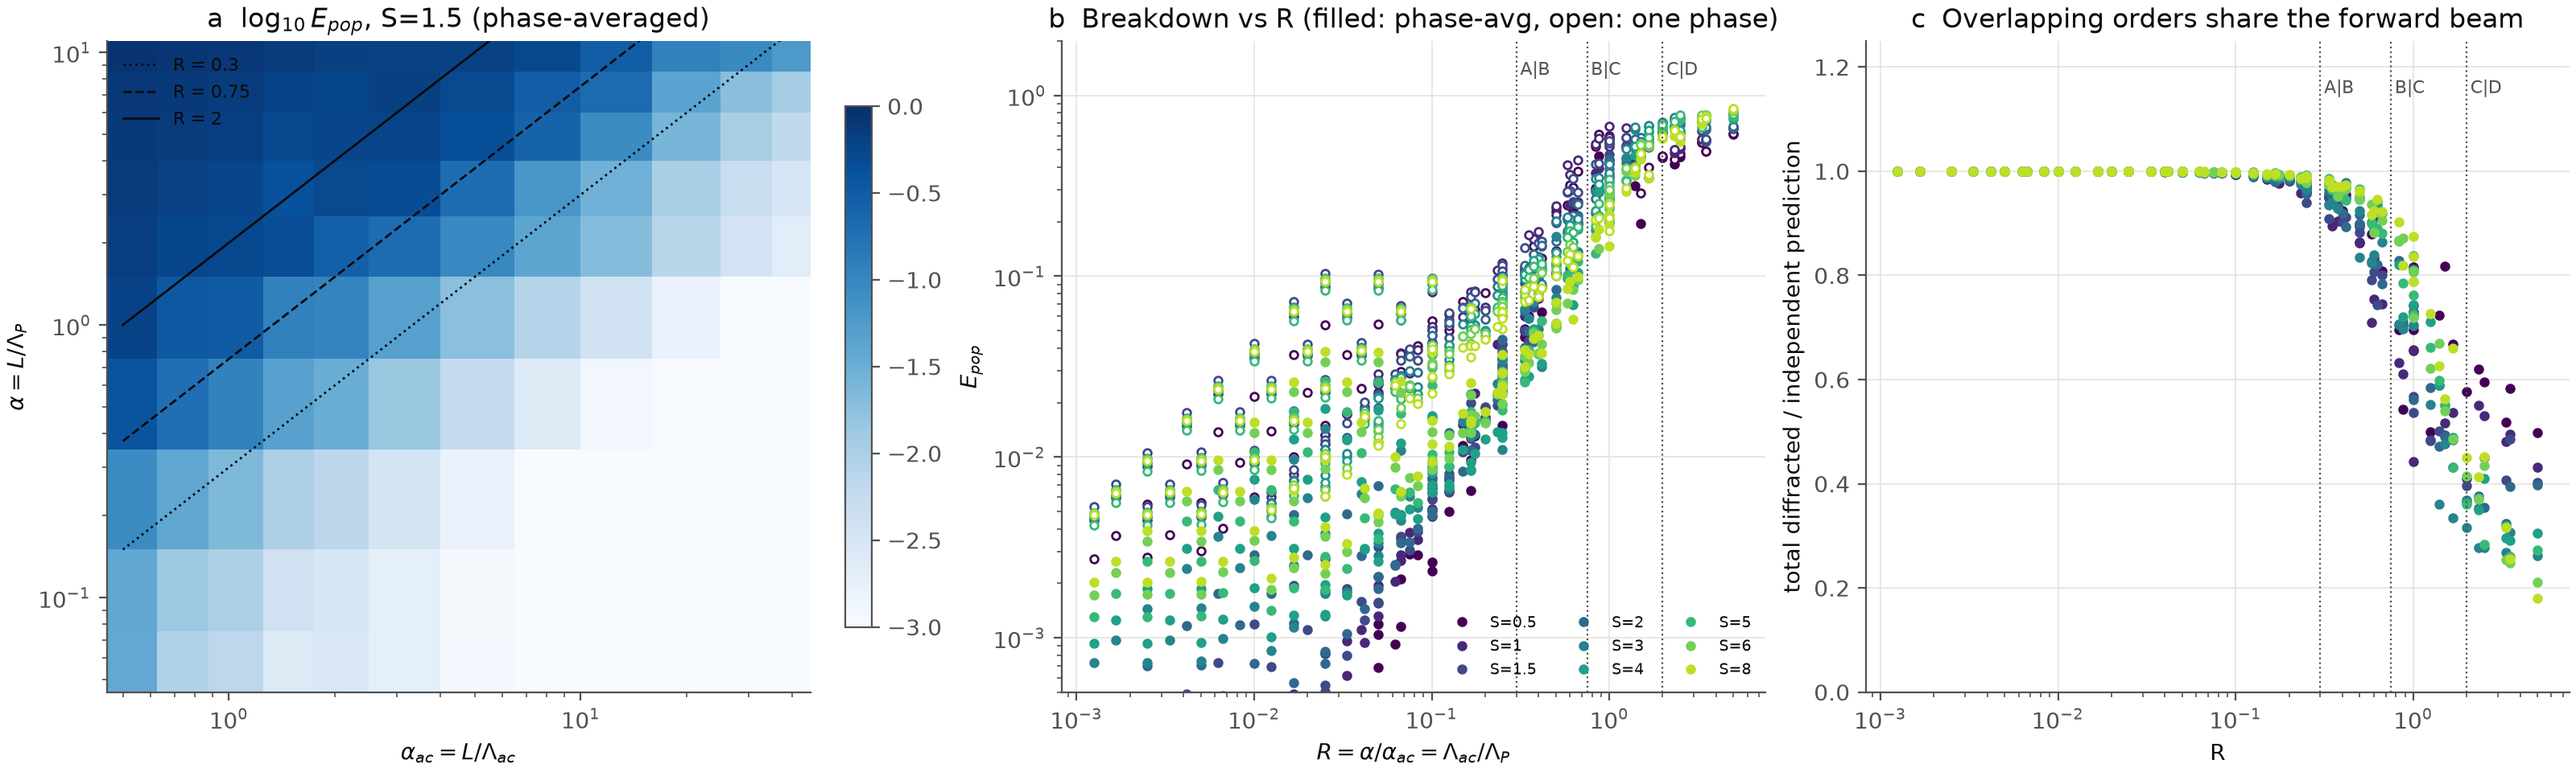
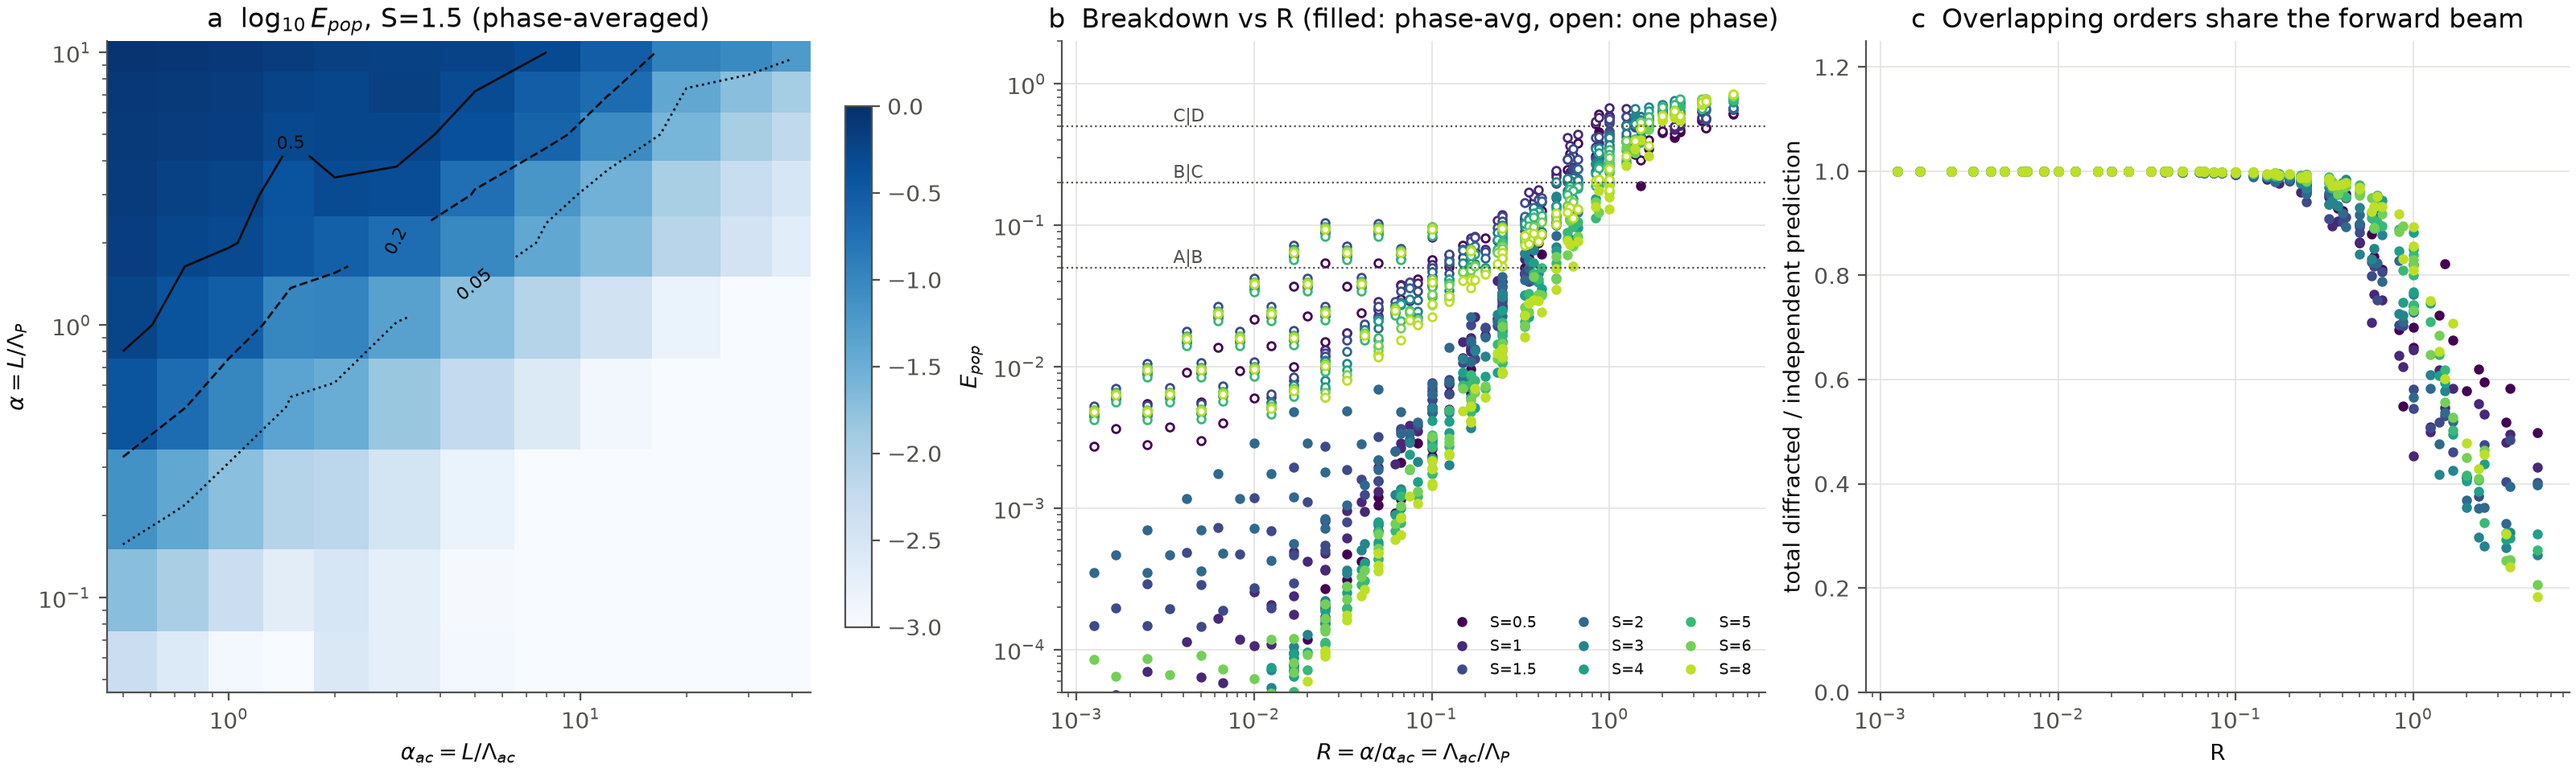
Update poster outline and regime figure for entries 34-57
Panel 4c (limits of the independent-satellite picture, S-dependent boundaries,
Bessel-zero resurrection with its observability limits), Panel 5 additions
(micromotion, 4-phase aliasing, walls = stacking-fault physics), outlook line.
Regime figure now uses the best phase average per point (exact > 16 > 4 phases).

diff --git a/explore/make_phase_figure.py b/explore/make_phase_figure.py
@@ -1,10 +1,12 @@
 """Regime map of the resolved Floquet-channel picture. Run: python explore/make_phase_figure.py
 
 Uniform travelling wave, filled crystal, Laue. E_pop = order-window population error of the
-independent-channel picture (Entry 43). Phase-averaged (4 acoustic phases) unless stated.
-a  E_pop over (alpha, alpha_ac) at S = 1.5, with lines R = 0.3, 0.75, 2.
-b  E_pop vs R for all S (alpha_ac >= 2), phase-averaged (filled) and single phase t = 0 (open).
-c  total diffracted intensity / independent prediction vs R.
+independent-channel picture (Entry 43). Phase-averaged: exact sum_m |b_m|^2 where computed
+(cache_e43_exact, Entry 54), else 16 phases (cache_e43_ph16, Entry 53), else 4 phases (cache_e43_ph4).
+a  E_pop over (alpha, alpha_ac) at S = 1.5, with E_pop = 0.05 / 0.2 / 0.5 contours.
+b  E_pop vs R for all S (alpha_ac >= 2), phase-averaged (filled) and single phase t = 0 (open);
+   thresholds 0.05 / 0.2 / 0.5. Boundaries in R depend on S (Entry 54 table).
+c  total diffracted intensity / independent prediction vs R (16 phases where available, else 4).
 """
 
 from __future__ import annotations
@@ -31,8 +33,21 @@ def load(name):
                      for r in rows if r["S"] > 0])
 
 
+def merged():
+    """Best available phase average per point: exact > 16 phases > 4 phases (E_pop); tot ratio 16 > 4."""
+    best = {tuple(r[:3]): r.copy() for r in load("cache_e43_ph4")}
+    for r in load("cache_e43_ph16"):
+        best[tuple(r[:3])] = r.copy()
+    for f in glob.glob(str(ROOT / "explore" / "nb" / "cache_e43_exact" / "*.json")):
+        r = json.loads(open(f).read())
+        k = (r["alpha"], r["aac"], r["S"])
+        if k in best:
+            best[k][3] = r["E_pop"]
+    return np.array(list(best.values()))
+
+
 def main(out="figures/regime_phase_diagram.png"):
-    P, T0 = load("cache_e43_ph4"), load("cache_e43")
+    P, T0 = merged(), load("cache_e43")
     fig, ax = plt.subplots(1, 3, figsize=(16, 4.8), constrained_layout=True)
     S0 = 1.5
     sel = P[:, 2] == S0
@@ -41,12 +56,11 @@ def main(out="figures/regime_phase_diagram.png"):
     for a, q, s, e, _ in P[sel]:
         M[als.index(a), aacs.index(q)] = e
     im = ax[0].pcolormesh(aacs, als, np.log10(M), cmap="Blues", vmin=-3, vmax=0, shading="nearest")
-    qf = np.geomspace(0.5, 40, 50)
-    for R, ls in ((0.3, ":"), (0.75, "--"), (2.0, "-")):
-        ax[0].plot(qf, R * qf, color=INK, lw=1.0, ls=ls, label=f"R = {R:g}")
+    cs = ax[0].contour(aacs, als, M, levels=[0.05, 0.2, 0.5], colors=INK, linewidths=1.0,
+                       linestyles=[":", "--", "-"])
+    ax[0].clabel(cs, fmt={0.05: "0.05", 0.2: "0.2", 0.5: "0.5"}, fontsize=8)
     ax[0].set(xscale="log", yscale="log", xlim=(0.45, 45), ylim=(0.045, 11), xlabel=r"$\alpha_{ac}=L/\Lambda_{ac}$",
               ylabel=r"$\alpha=L/\Lambda_P$", title=rf"a  $\log_{{10}}E_{{pop}}$, S={S0} (phase-averaged)")
-    ax[0].legend(fontsize=8, frameon=False, loc="upper left")
     fig.colorbar(im, ax=ax[0], shrink=0.8)
     hues = plt.cm.viridis(np.linspace(0, 0.9, 9))
     for c, S in zip(hues, sorted(set(P[:, 2]))):
@@ -56,11 +70,10 @@ def main(out="figures/regime_phase_diagram.png"):
                        label=f"S={S:g}" if mfc is None else None)
         m = (P[:, 2] == S) & (P[:, 1] >= 2)
         ax[2].plot(P[m, 0] / P[m, 1], P[m, 4], "o", ms=3.5, color=c, ls="none", label=f"S={S:g}")
-    for a in ax[1:]:
-        for R, lab in ((0.3, "A|B"), (0.75, "B|C"), (2.0, "C|D")):
-            a.axvline(R, color=INK2, lw=0.8, ls=":")
-            a.text(R * 1.05, a.get_ylim()[1] if False else (1.3 if a is ax[1] else 1.15), lab, fontsize=8, color=INK2)
-    ax[1].set(xscale="log", yscale="log", ylim=(5e-4, 2), xlabel=r"$R=\alpha/\alpha_{ac}=\Lambda_{ac}/\Lambda_P$",
+    for e, lab in ((0.05, "A|B"), (0.2, "B|C"), (0.5, "C|D")):
+        ax[1].axhline(e, color=INK2, lw=0.8, ls=":")
+        ax[1].text(3.5e-3, e * 1.08, lab, fontsize=8, color=INK2)
+    ax[1].set(xscale="log", yscale="log", ylim=(5e-5, 2), xlabel=r"$R=\alpha/\alpha_{ac}=\Lambda_{ac}/\Lambda_P$",
               ylabel=r"$E_{pop}$", title=r"b  Breakdown vs R (filled: phase-avg, open: one phase)")
     ax[1].legend(fontsize=7, frameon=False, ncol=3, loc="lower right")
     ax[2].set(xscale="log", ylim=(0, 1.25), xlabel="R", ylabel="total diffracted / independent prediction",

diff --git a/notes/poster_outline.md b/notes/poster_outline.md
@@ -1,4 +1,4 @@
-# KPS 2026 Fall poster — outline draft (2026-09-30)
+# KPS 2026 Fall poster — outline draft (2026-09-30, updated 2026-10-02 for Entries 34–57)
 
 Title (abstract): *Transient Formation Dynamics of Acoustic Bragg Satellites in
 Dynamical X-ray Diffraction.* Every claim below points to a notebook entry
@@ -15,6 +15,9 @@ Stroboscopic two-beam Takagi–Taupin; phase grating
 phi = S A(t - zeta) sin(q zeta - q t); dimensionless alpha = L / Lambda_P,
 S = h.u0, alpha_ac = L / Lambda_ac; Laue and Bragg; analytic ground truth to
 1e-9, 4th-order convergence (C-1.2). Resolved channels, alpha / alpha_ac <= 0.1.
+Independent check for the filled uniform wave: an exact Floquet solver
+(`src/tratt/floquet.py`, Entry 42). The acoustic-phase average is exactly
+sum_m |b_m|^2 (Entry 53, test).
 
 ## Panel 3 — Main result: the filled-depth mapping (figure: `figures/poster_mapping.png` a, b)
 Behind the front, satellite n sees a crystal of thickness v_s t with coupling
@@ -45,8 +48,8 @@ No fit parameter; all (alpha, S, n) collapse onto one curve.
   window. (Entries 5, 15)
 - At a Bessel zero the slow clock stops; only the acoustic-period ripple is
   left. (Entry 25)
-- Regime map: accuracy ~ 0.9 Lambda_ac / Lambda_P, independent of the clock.
-  (Entry 26; `figures/regime_map.png`)
+- Regime map of the formation law: accuracy ~ 0.9 Lambda_ac / Lambda_P, independent
+  of the clock. (Entry 26; `figures/regime_map.png`)
 
 ## Panel 4b — Formation remembers the path (figure `figures/poster_memory.png`)
 The crystal is a record of the last t_tr of the drive; satellite n reads
@@ -60,12 +63,46 @@ Theta_n = int_0^1 J_n(S A(t - zeta)) dzeta, sin^2 in Laue, tanh^2 in Bragg (exac
 - Brightest order switches 1 -> 2 -> 3 -> 4 -> 5 during a ramp, t_tr / 2 late.
   (Entry 31)
 All at alpha = 0.5 (no Pendellösung) and identical in Bragg.
+Framing (Entry 34): claim "the steady-state pattern does not determine the
+transient one". Do not claim a new kind of peak; the slow-ramp limit is the
+adiabatic Bessel ladder. Robust within the model: a >30:1 transient/final
+contrast survives a 5 % error in S or 10 % acoustic loss (Entries 34, 35).
+Two-domain cancellation (Entry 37) darkens only the centre; the eta-integral
+obeys Parseval, so integrated darkness needs a local J_n = 0.
+
+## Panel 4c — Where the independent-satellite picture ends (figure `figures/regime_phase_diagram.png`)
+Steady state, filled crystal, exact phase average (Entries 42–54).
+- Order-window population error E_pop < 0.05 (independent channels hold) for
+  R = Lambda_ac / Lambda_P below 0.44 (S = 0.5), 0.34 (S = 1), 0.44 (S = 2),
+  0.34 (S = 3), 0.57 (S = 5, 8); bins x1.3, S-dependent, not a universal law
+  (Entry 54 table). All formation results above sit at R <~ 0.05–0.1.
+- R ~ 1 is the known X-ray/neutron–acoustic resonance (Entin; Iolin–Entin;
+  Raitman et al.; Entry 50). Cite, do not claim.
+- First failure at a Bessel zero: the dark order reappears through a
+  third-order indirect coupling g_eff = pi alpha (R/2)^2 C_n(S), with a
+  renormalised zero S* - j = (R/2)^2 C_n / J'_{-n} (Entries 45, 52; "possibly new"
+  only after reading Entin / Iolin–Entin in full).
+  Observability limits (Entries 53, 54; alpha = 1, S = j_11):
+  - it dominates the phase-averaged exit intensity only within
+    |alpha_ac - integer| <~ 1.3e-3 (90 %) and an angular half-width
+    w/q <~ 2e-4;
+  - in the |eta - q| < 0.45 q integral its share is 4.4e-5.
+  Present it as theory, not as an experiment proposal.
 
 ## Panel 5 — What looked like features but are not
 Peak shifts, ±n asymmetry, acoustic-period ripple and the +12 % integral
 excess are one kinematic mechanism: interference with the main line's
 off-Bragg tail, reproduced by a closed three-mode model and vanishing as
 alpha / alpha_ac -> 0. (Entries 2, 3, 8, 14)
+- The single-acoustic-phase "breakdown" of order additivity is micromotion; it
+  averages away. The old 4-phase average was not converged (aliasing of
+  m - m' = 0 mod 4) and overstated breakdown at small alpha_ac and large S
+  (Entries 43, 53).
+- Chirps, q-walls and phase walls (Entries 38–41) are one known mechanism:
+  dephasing relieves extinction. The phase wall is quantitatively a stacking
+  fault with fault phase n dphi: Authier & Simon (1968) eq. (4-5) reproduces
+  the TT integrals to 1–3 % (Entries 55, 56). Order-space localisation is
+  absent (Entry 51).
 
 ## Panel 6 — Experiment
 Constants from X0h (Entry 20). The resolved-channel rule is
@@ -84,9 +121,19 @@ the clock is dynamical: t_tr / (alpha |J_n(S)|) — oscillation in Laue,
 saturation in Bragg. The static extinction length of each satellite, known
 from the steady state, becomes a time.
 
+## Outlook (one line on the poster)
+Reading acoustic spectra from time-resolved diffraction: when does the Fourier
+weight of R(t) equal the strain spectrum? Compare with Chalise et al.,
+arXiv:2603.28071 (2026) (Entries 57–58).
+
 ## Before printing
 - Read DeCamp 2001 and the ultrasonic-superlattice literature in full; fix the
   novelty sentence (Entry 7).
 - X-ray constants verified with X0h (Entry 20); c44 and GHz shear-wave launch through 0.2–0.3 mm Si still to check.
 - Read Polikarpov, phys. stat. sol. (b) 143 (1987) / 149 (1988) (paywalled; needs library access) — Entry 21.
 - Decide whether Bragg (deprioritised) gets a full panel or a sub-panel.
+- Read Entin (JETP Lett. 26, 392 (1977); JETP 77, 214 (1979)) and Iolin–Entin
+  (JETP 85, 1692 (1983)) before any "possibly new" wording in Panel 4c.
+- Read Authier & Simon part II (moiré, different h) for the q-wall verdict.
+- Panel 4c figure: `figures/regime_phase_diagram.png` now uses the best phase
+  average per point (exact > 16 > 4 phases).
